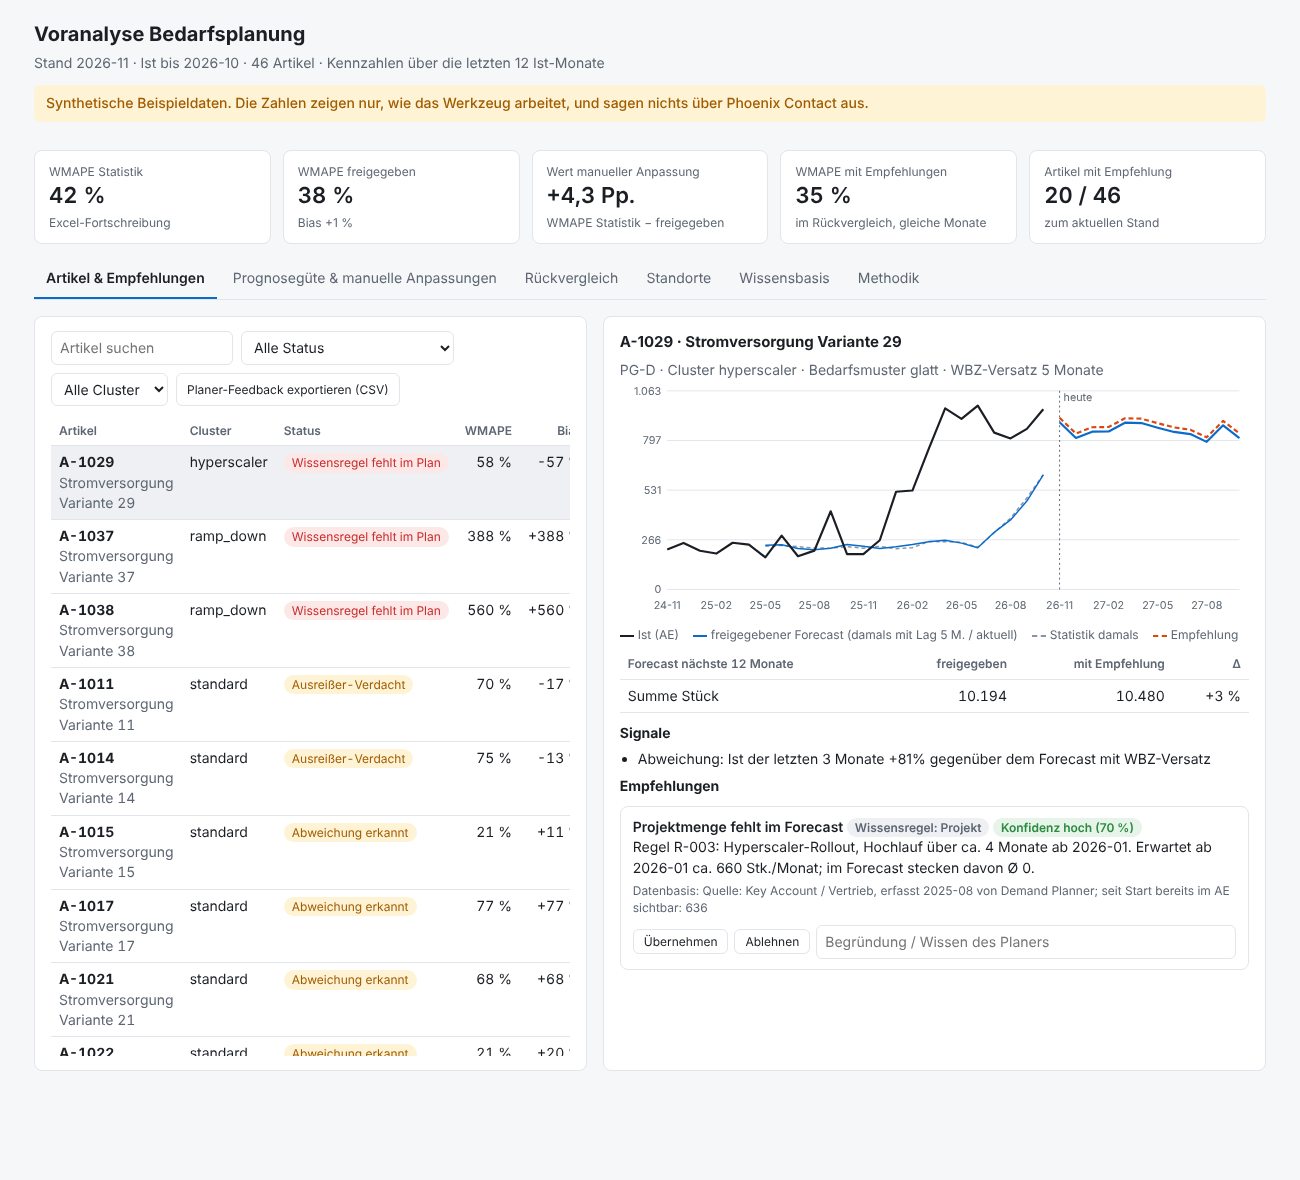
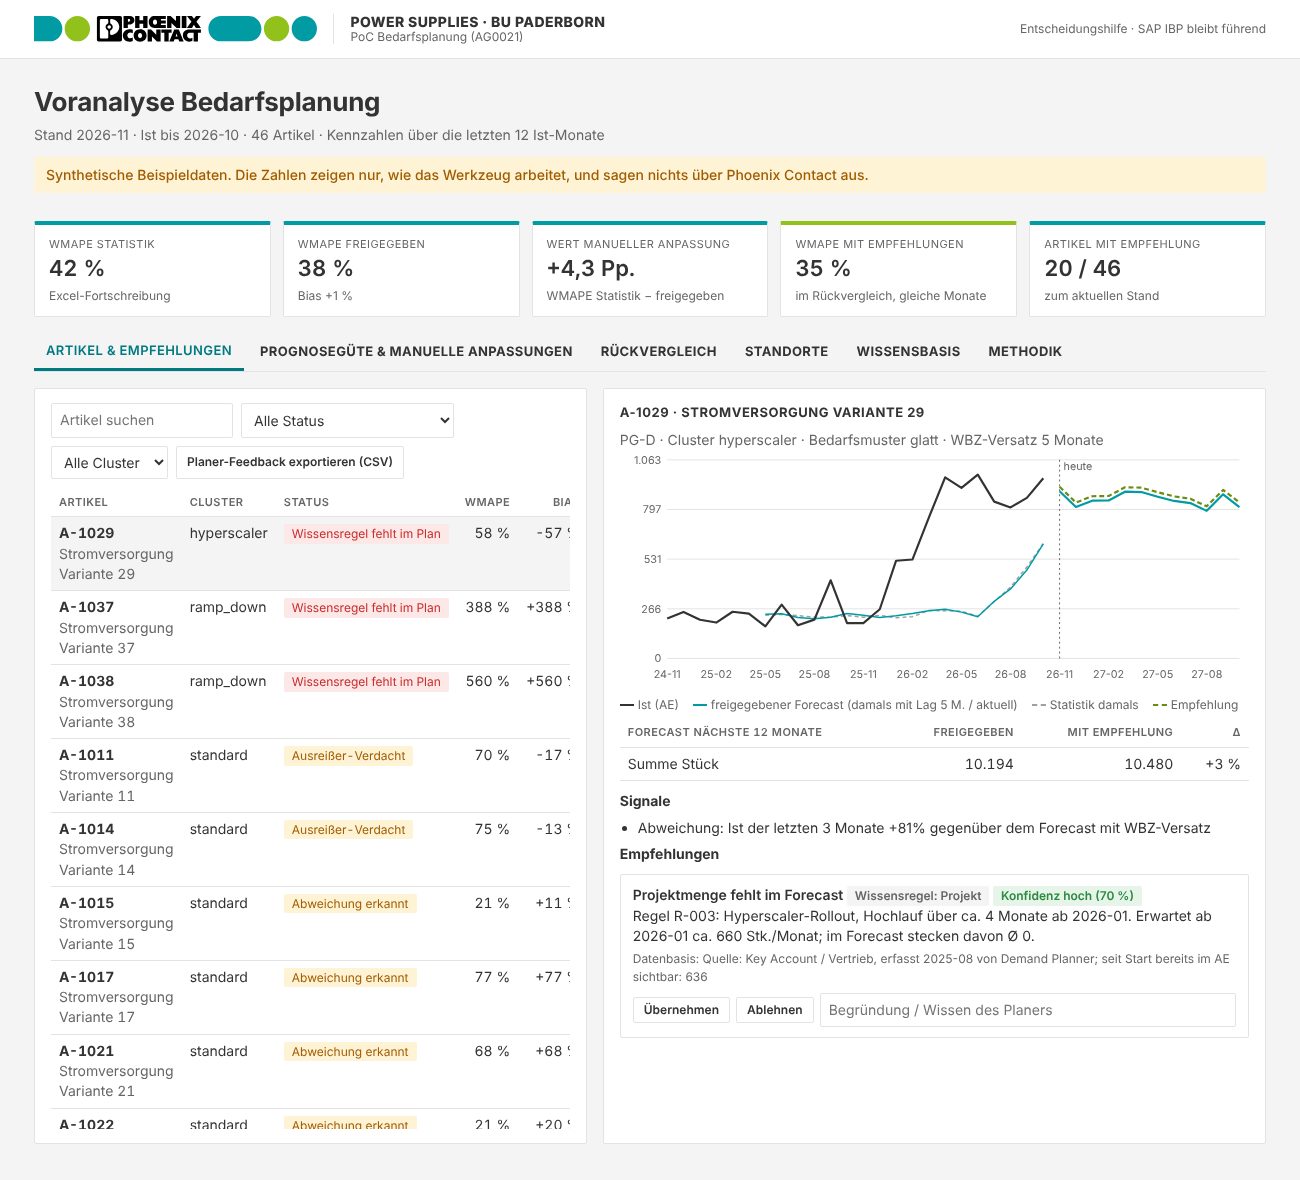
Bericht im Phoenix-Contact-Layout
Theme mit den Markenfarben aus der Signalkette (Petrol #009BA3, Grün #93C11C),
Signalkette mit Logo in der Kopfleiste, Versal-Navigation und -Überschriften,
flache Flächen. Theme abschaltbar mit --theme neutral; Herkunft der Werte
in docs/THEME.md.

Claude-Session: https://claude.ai/code/session_01CYbS8nqmfQ4nPVJtFfYR1s

diff --git a/pcpoc/theme_phoenix.css b/pcpoc/theme_phoenix.css
@@ -1,0 +1,74 @@
+/* =====================================================================
+   Theme "Phoenix Contact" für den Voranalyse-Bericht
+   ---------------------------------------------------------------------
+   Übernommen von phoenixcontact.com (Stand 17.11.2026), soweit lesbar:
+     - Design-Tokens heißen dort --color-blue, --color-gray-800, --color-white,
+       --default-border (aus dem HTML der Startseite)
+     - Kategorie-Überschriften in Versalien, Farbe gray-800
+     - Akzent (Badges, Zähler) in --color-blue auf Weiß, flache Flächen, dünne Rahmen
+     - Signalkette (Punkte/Pillen) als Kopfband: pcpoc/assets/signal-chain.svg,
+       daraus die exakten Markenfarben Petrol #009BA3 und Grün #93C11C
+   NICHT lesbar (Stylesheets der Seite liefern bei automatisiertem Abruf 403):
+     die Hausschrift. Wert mit "VORLÄUFIG" bei Bedarf aus dem CI-Leitfaden eintragen.
+   ===================================================================== */
+:root{
+  /* Farben aus der Signalkette der Website (signal-chain.svg): exakt */
+  --color-blue: #009ba3;        /* Petrol */
+  --color-blue-dark: #007a81;   /* abgedunkeltes Petrol für Text/Hover (Kontrast auf Weiß) */
+  --color-green: #93c11c;       /* Grün */
+  --color-green-dark: #6a8c14;  /* abgedunkelt, damit Linien auf Weiß lesbar bleiben */
+  --color-black: #000000;       /* Logo */
+  --color-gray-800: #333333;    /* Navigation "PRODUKTE", "INDUSTRIEN & APPLIKATIONEN" */
+  --color-gray-600: #666666;
+  --color-gray-200: #e3e3e3;
+  --color-gray-100: #f4f4f4;
+  --color-white: #ffffff;
+  --default-border: 1px solid var(--color-gray-200);
+  /* Navigation: fette, leicht gesperrte Grotesk in Versalien. Hausschrift unbekannt -> Roboto, falls installiert, sonst Arial. VORLÄUFIG */
+  --font: Roboto, "Helvetica Neue", Arial, sans-serif;
+
+  --bg: var(--color-gray-100); --panel: var(--color-white); --ink: var(--color-gray-800);
+  --muted: var(--color-gray-600); --line: var(--color-gray-200); --accent: var(--color-blue-dark);
+  --ist: var(--color-gray-800); --final: var(--color-blue); --stat: #a0a0a0; --emp: var(--color-green-dark);
+  --neutral-bg: var(--color-gray-100);
+}
+@media (prefers-color-scheme: dark){
+  :root:not([data-theme="light"]){
+    --bg:#121417; --panel:#1b1e22; --ink:#e8e8e8; --muted:#a3a3a3; --line:#2e3238;
+    --accent:#6cc2c8; --final:#5bb3b9; --ist:#e8e8e8; --stat:#7c7c7c; --emp:#a8cf4a; --neutral-bg:#24282d;
+  }
+}
+:root[data-theme="dark"]{
+  --bg:#121417; --panel:#1b1e22; --ink:#e8e8e8; --muted:#a3a3a3; --line:#2e3238;
+  --accent:#6cc2c8; --final:#5bb3b9; --ist:#e8e8e8; --stat:#7c7c7c; --emp:#a8cf4a; --neutral-bg:#24282d;
+}
+
+/* Layout im Stil der Website: weiße Kopfleiste, flache Flächen, kantige Ecken, Versal-Überschriften */
+body{font-family:var(--font)}
+/* Kopfleiste bleibt auch im Dunkelmodus weiß, weil das Logo in der Signalkette schwarz ist */
+.topbar{background:#ffffff;border-bottom:1px solid #e3e3e3}
+.topbar .brand{color:#333333}
+.topbar .brand small,.topbar .tag{color:#666666}
+.topbar-in{max-width:1280px;margin:0 auto;padding:14px 24px;display:flex;align-items:center;gap:16px;flex-wrap:wrap}
+.brand{font-weight:800;letter-spacing:.03em;text-transform:uppercase;font-size:14px;line-height:1.15;padding-left:16px;border-left:1px solid #e3e3e3}
+.brand small{display:block;font-weight:400;letter-spacing:0;text-transform:none;font-size:12px}
+.topbar .tag{margin-left:auto;font-size:12px}
+.accentline{display:none}
+/* Signalkette wie im Kopf der Website */
+.band{display:block;height:26px;width:auto;flex:none}
+@media (max-width:600px){.band{height:18px}}
+header{padding-top:24px}
+h1{font-size:26px;font-weight:700;letter-spacing:-.01em}
+.panel h2{text-transform:uppercase;letter-spacing:.04em;font-size:13px;color:var(--ink)}
+.kpi .l{text-transform:uppercase;letter-spacing:.04em;font-size:11px}
+.kpi{border-top:4px solid var(--color-blue)}
+.kpis .kpi:nth-child(4){border-top-color:var(--color-green)}
+.kpi,.panel,.rec,input,select,textarea,button.small,.banner{border-radius:2px}
+.chip{border-radius:2px}
+.bar,.bar span{border-radius:0}
+nav.tabs button{text-transform:uppercase;letter-spacing:.03em;font-size:13px;font-weight:700;color:var(--ink)}
+nav.tabs button.on{color:var(--accent);border-bottom-width:3px}
+button.small{font-weight:600}
+button.small:hover{border-color:var(--accent);color:var(--accent)}
+th{text-transform:uppercase;letter-spacing:.04em;font-size:11px}
+a{color:var(--accent)}

diff --git a/pcpoc/report_template.html b/pcpoc/report_template.html
@@ -73,9 +73,16 @@ ul.sig{margin:6px 0;padding-left:18px}
 .bar{height:8px;border-radius:4px;background:var(--neutral-bg);position:relative;min-width:80px}
 .bar span{position:absolute;left:0;top:0;bottom:0;border-radius:4px;background:var(--accent)}
 code{font-size:12px}
+/*__THEME__*/
 </style>
 </head>
 <body>
+<div class="topbar"><div class="topbar-in">
+  <!--__BAND__-->
+  <div class="brand">Power Supplies · BU Paderborn<small>PoC Bedarfsplanung (AG0021)</small></div>
+  <div class="tag">Entscheidungshilfe · SAP IBP bleibt führend</div>
+</div></div>
+<div class="accentline"></div>
 <header>
   <h1>Voranalyse Bedarfsplanung</h1>
   <div class="sub" id="sub"></div>

diff --git a/pcpoc/cli.py b/pcpoc/cli.py
@@ -20,10 +20,11 @@ ROOT = Path(__file__).resolve().parent.parent
 DEFAULT_PARAMS = ROOT / "config" / "params.yaml"
 
 
-def _run(folder: Path, params: Path, out: Path, cutoff: str | None, synthetic: bool, backtest: bool) -> None:
+def _run(folder: Path, params: Path, out: Path, cutoff: str | None, synthetic: bool, backtest: bool,
+         theme: str = "phoenix") -> None:
     ds = io.load_dataset(folder, params)
     rr = pipeline.run(ds, pd.Period(cutoff, "M") if cutoff else None, with_backtest=backtest)
-    html = report.write_html(rr, out / "voranalyse.html", synthetic=synthetic)
+    html = report.write_html(rr, out / "voranalyse.html", synthetic=synthetic, theme=theme)
     xlsx = report.write_excel(rr, out / "voranalyse.xlsx")
     t = rr.acc_total.iloc[0]
     print(f"Stand {rr.cutoff}: {len(rr.results)} Artikel, {sum(1 for r in rr.results if r.recs)} mit Empfehlung")
@@ -48,6 +49,7 @@ def main(argv=None) -> None:
     r.add_argument("--out", default="out", type=Path)
     r.add_argument("--stand", help="Stichtag YYYY-MM (Standard: jüngster Forecast-Stand)")
     r.add_argument("--ohne-rueckvergleich", action="store_true")
+    r.add_argument("--theme", default="phoenix", choices=["phoenix", "neutral"])
 
     s = sub.add_parser("synth", help="nur Beispieldaten erzeugen")
     s.add_argument("folder", type=Path)
@@ -65,7 +67,7 @@ def main(argv=None) -> None:
         synth.generate(folder, seed=a.seed)
         _run(folder, DEFAULT_PARAMS, a.out, None, True, True)
     elif a.cmd == "run":
-        _run(a.folder, a.params, a.out, a.stand, False, not a.ohne_rueckvergleich)
+        _run(a.folder, a.params, a.out, a.stand, False, not a.ohne_rueckvergleich, a.theme)
     elif a.cmd == "synth":
         print(synth.generate(a.folder, seed=a.seed))
     elif a.cmd == "wissen":

diff --git a/pcpoc/report.py b/pcpoc/report.py
@@ -10,6 +10,7 @@ import pandas as pd
 from .pipeline import RunResult
 
 TEMPLATE = Path(__file__).with_name("report_template.html")
+THEMES = {"phoenix": Path(__file__).with_name("theme_phoenix.css"), "neutral": None}
 
 
 def _num(x, nd=1):
@@ -89,9 +90,14 @@ def payload(rr: RunResult, synthetic: bool) -> dict:
     )
 
 
-def write_html(rr: RunResult, path: str | Path, synthetic: bool = False) -> Path:
+def write_html(rr: RunResult, path: str | Path, synthetic: bool = False, theme: str = "phoenix") -> Path:
     data = json.dumps(payload(rr, synthetic), ensure_ascii=False, default=str).replace("</", "<\\/")
-    html = TEMPLATE.read_text(encoding="utf-8").replace("/*__DATA__*/null", data)
+    css = THEMES[theme].read_text(encoding="utf-8") if THEMES.get(theme) else ""
+    band = ""
+    if theme == "phoenix":
+        svg = Path(__file__).with_name("assets").joinpath("signal-chain.svg").read_text(encoding="utf-8")
+        band = svg.replace("<svg ", '<svg class="band" aria-hidden="true" ', 1)
+    html = TEMPLATE.read_text(encoding="utf-8").replace("/*__THEME__*/", css).replace("<!--__BAND__-->", band).replace("/*__DATA__*/null", data)
     p = Path(path)
     p.parent.mkdir(parents=True, exist_ok=True)
     p.write_text(html, encoding="utf-8")

diff --git a/README.md b/README.md
@@ -16,7 +16,7 @@ Prototyp zum Angebot **AG0021** („PoC zur KI-basierten Bedarfsplanung der BU P
 | Rückvergleich mit eingetretenen Bedarfen | Zeitreise über vergangene Stichtage, nur mit damals bekanntem Wissen; Trefferquote je Empfehlungstyp | `analysis.backtest` |
 | Abstimmung mit den Demand Plannern | HTML-Bericht mit „Übernehmen / Ablehnen + Begründung“, Export als CSV; Excel-Export mit Spalten für Entscheidung und Kommentar | `report.py` |
 
-Ergebnis eines Laufs ist **eine HTML-Datei** (offline, ohne Server, Hell/Dunkel) plus **eine Excel-Datei**:
+Ergebnis eines Laufs ist **eine HTML-Datei** (offline, ohne Server, Hell/Dunkel, im Phoenix-Contact-Layout, siehe [`docs/THEME.md`](docs/THEME.md)) plus **eine Excel-Datei**:
 
 ![Bericht](docs/bericht.png)
 
@@ -51,6 +51,7 @@ pcpoc/accuracy.py       Matching mit WBZ-Versatz, WMAPE, Bias, FVA
 pcpoc/analysis.py       Signale, Empfehlungen, Rückvergleich, Standortverteilung
 pcpoc/knowledge.py      Wissensbasis, optionale Extraktion aus Notizen
 pcpoc/report.py         HTML-Bericht und Excel-Export
+pcpoc/theme_phoenix.css Layout nach phoenixcontact.com (Farben, Signalkette); --theme neutral schaltet es ab
 pcpoc/synth.py          synthetische Beispieldaten mit bekannten Mustern
 docs/                   Abgleich Angebot/Briefing, PoC-Plan, Datenvertrag, offene Fragen
 ```

diff --git a/docs/THEME.md b/docs/THEME.md
@@ -1,0 +1,17 @@
+# Theme „Phoenix Contact“
+
+Der HTML-Bericht nutzt standardmäßig das Theme `phoenix` (`pcpoc/theme_phoenix.css`). Mit `--theme neutral` entfällt es.
+
+| Element | Quelle | Wert |
+|---|---|---|
+| Signalkette mit Logo im Kopf | `pcpoc/assets/signal-chain.svg`, Grafik von phoenixcontact.com | – |
+| Petrol (Primärakzent, Forecast-Linie, KPI-Kanten) | aus der Signalkette | `#009BA3` (Text/Hover abgedunkelt `#007A81`) |
+| Grün (Empfehlung, Hervorhebung) | aus der Signalkette | `#93C11C` (Linien abgedunkelt `#6A8C14`) |
+| Dunkelgrau für Text und Navigation | Screenshot der Navigation | `#333333` |
+| Navigation und Überschriften in fetten Versalien | Screenshot der Navigation | – |
+| Token-Namen `--color-blue`, `--color-gray-800`, `--default-border` | HTML der Startseite | übernommen |
+| Hausschrift | **nicht ermittelt**: Die Stylesheets der Website liefern bei automatisiertem Abruf 403 | Ersatz: Roboto, sonst Arial |
+
+Um die Hausschrift nachzutragen, trägt man sie unter `--font` in `theme_phoenix.css` ein. Damit sie offline funktioniert, muss die Schrift auf den Rechnern installiert sein. Ein Einbetten der Schriftdatei ist nur nach Klärung der Lizenz sinnvoll.
+
+Logo und Markenelemente stammen von Phoenix Contact. Sie werden ausschließlich im Bericht für Phoenix Contact verwendet.
